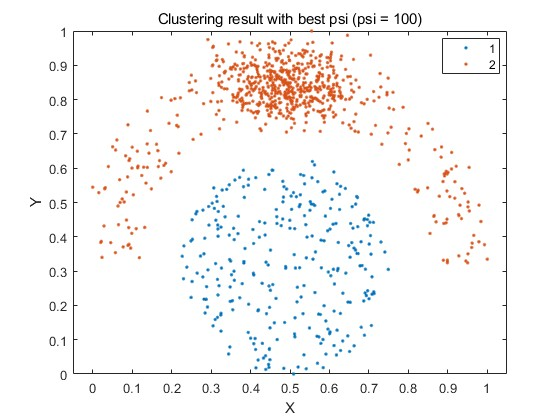
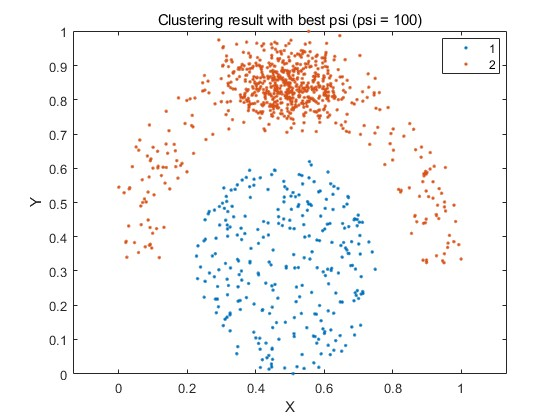
update IDKC clustering

diff --git a/visual_result.m b/visual_result.m
@@ -1,9 +1,10 @@
 addpath("IDKC")
 addpath("utils")
 addpath("metrics")
-load(['../Data/one_gaussian_10_one_line_5_2.mat'])
+load(['../Data/dense_8_sparse_1_sparse_1.mat'])
 
-data = double(data);    
+data = double(data);
+data_row = data;
 class = double(class);
 
 data = (data - min(data)).*((max(data) - min(data)).^-1);
@@ -14,41 +15,44 @@ v = 0.9;
 s = min(size(data, 1), 10000);
 t = 100;
 
-Kn = 490;
-% rng('default')
 rng(1)
 
-best_psi_nmi = 6;
+best_psi_nmi = 48;
+Kn = 360;
 
 % 使用 best_psi_nmi 再次计算聚类结果
 [ndata_best] = iNNEspace(data, data, best_psi_nmi, t);
 [Tclass_best, ~] = DKC(ndata_best, k, Kn, v, s);
 
-if size(data, 2) == 2
+if size(data_row, 2) == 2
     % 如果是二维数据，直接绘图
     figure;
-    gscatter(data(:,1), data(:,2), Tclass_best);
+    gscatter(data_row(:,1), data_row(:,2), Tclass_best);
     title(sprintf('Clustering result with best psi (psi = %d)', best_psi_nmi));
     xlabel('X'); ylabel('Y');
+    axis equal 
 
     % 可选：绘制真实类别标签
     figure;
-    gscatter(data(:,1), data(:,2), class);
+    gscatter(data_row(:,1), data_row(:,2), class);
     title('Ground truth classes');
     xlabel('X'); ylabel('Y');
+    axis equal 
 
 else
     % 如果不是二维数据，使用 t-SNE 可视化
-    Y = tsne(data, 'NumDimensions', 2, 'Perplexity', 30, 'Standardize', true);
+    Y = tsne(data_row, 'NumDimensions', 2, 'Perplexity', 30, 'Standardize', true);
 
     figure;
     gscatter(Y(:,1), Y(:,2), Tclass_best);
     title(sprintf('Clustering result with best psi (psi = %d)', best_psi_nmi));
     xlabel('t-SNE 1'); ylabel('t-SNE 2');
+    axis equal 
 
     % 可选：绘制真实类别标签
     figure;
     gscatter(Y(:,1), Y(:,2), class);
     title('Ground truth classes (t-SNE visualization)');
     xlabel('t-SNE 1'); ylabel('t-SNE 2');
+    axis equal 
 end
